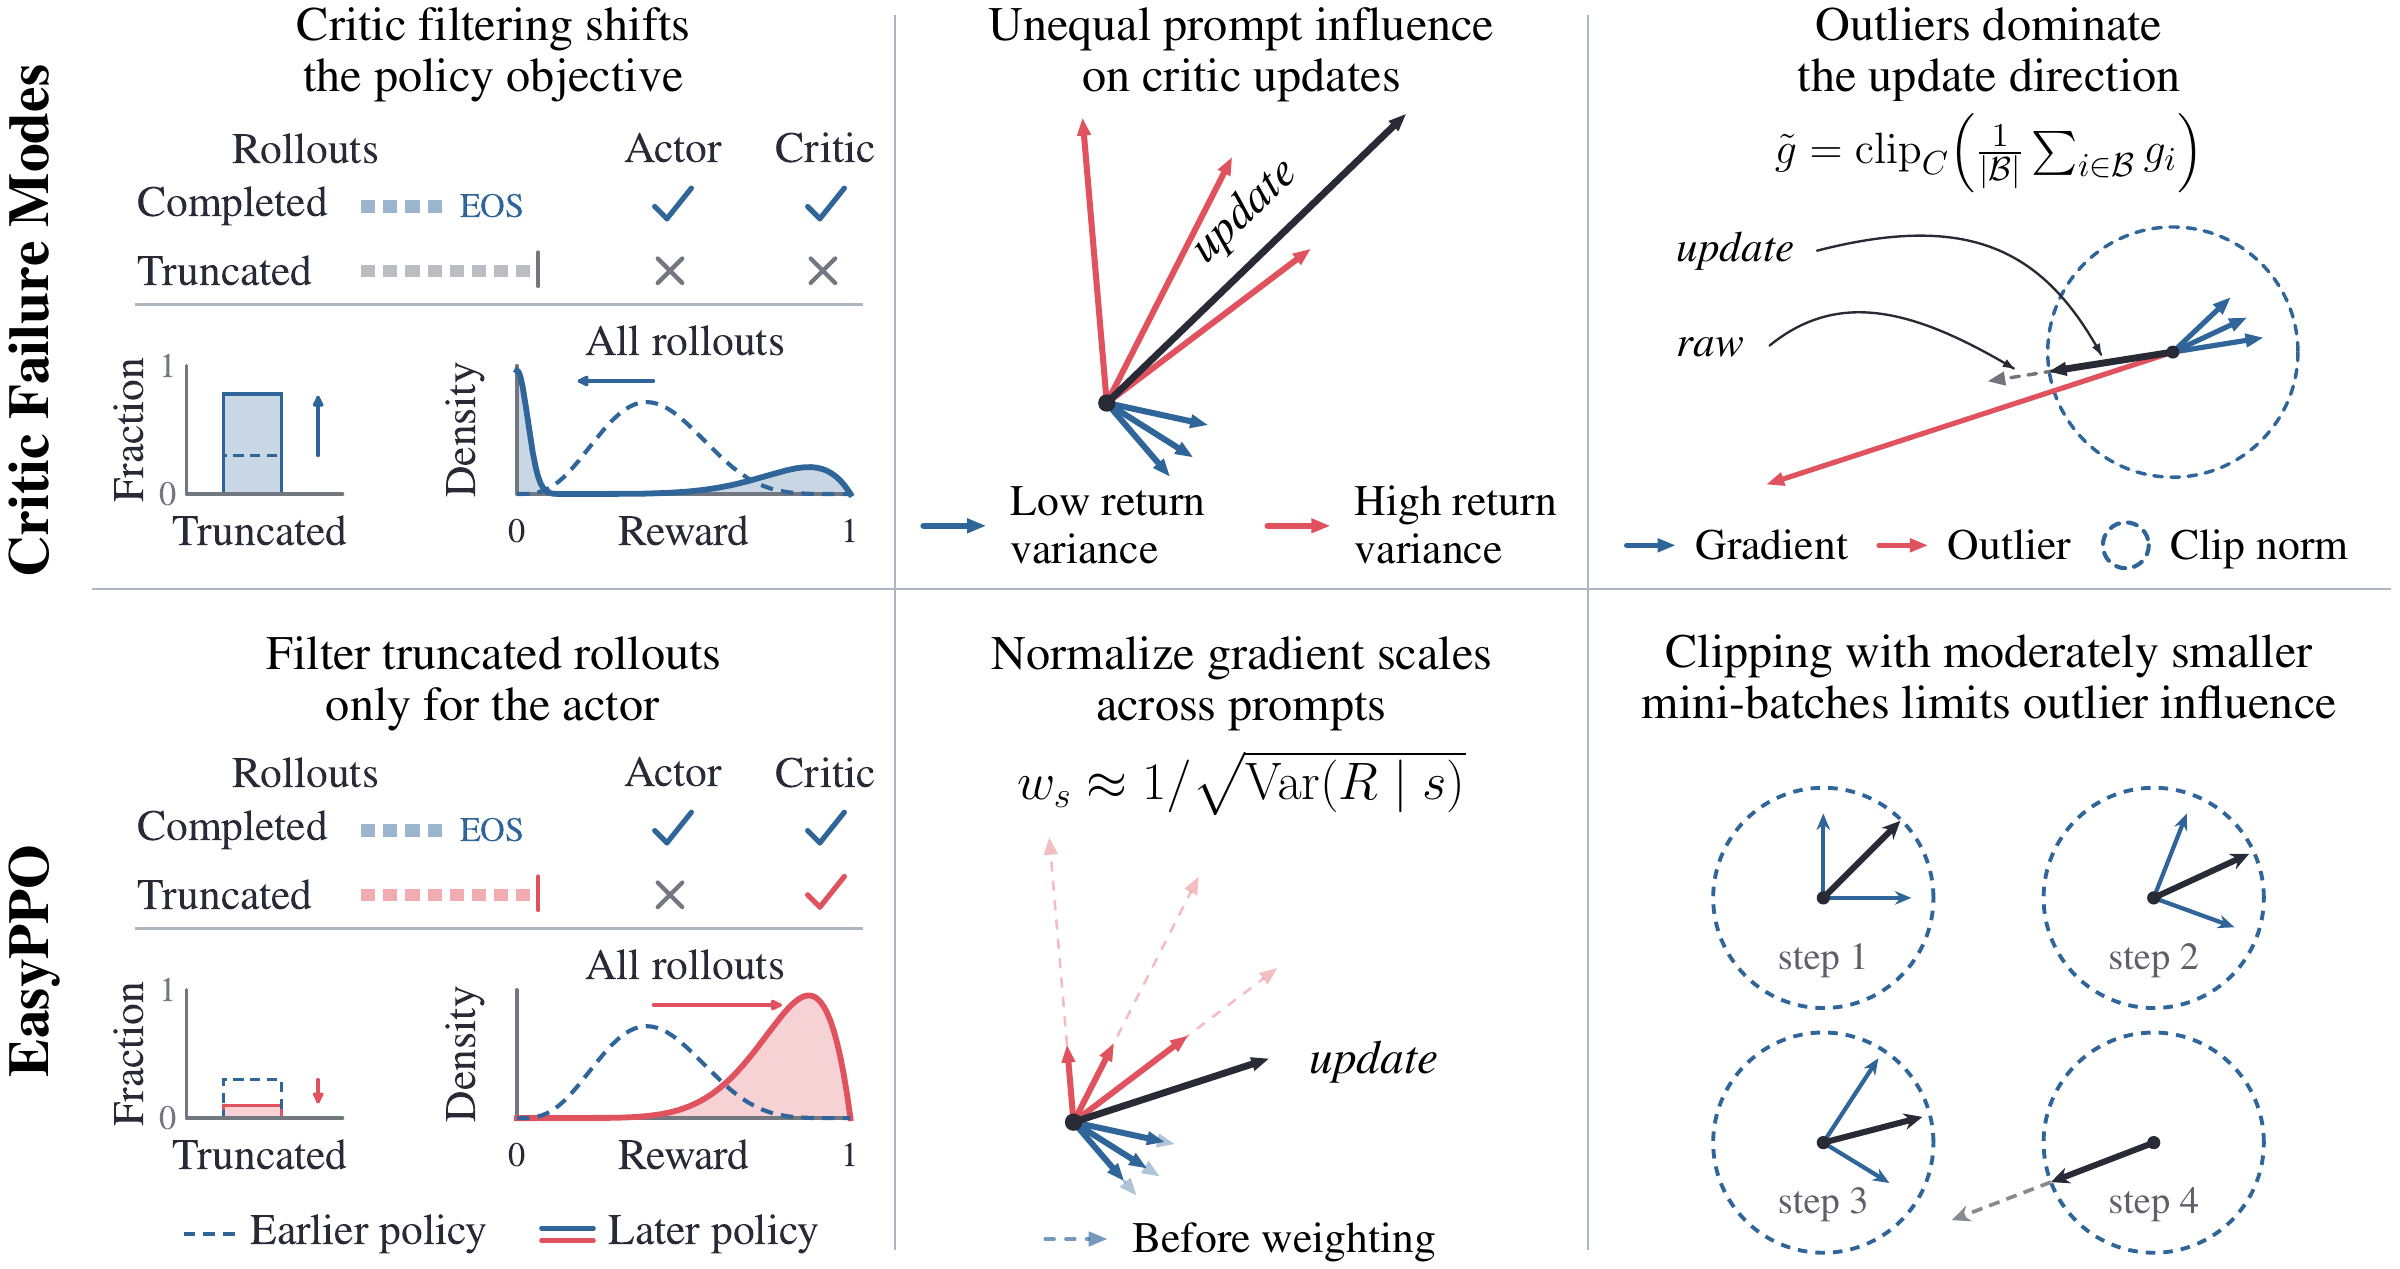
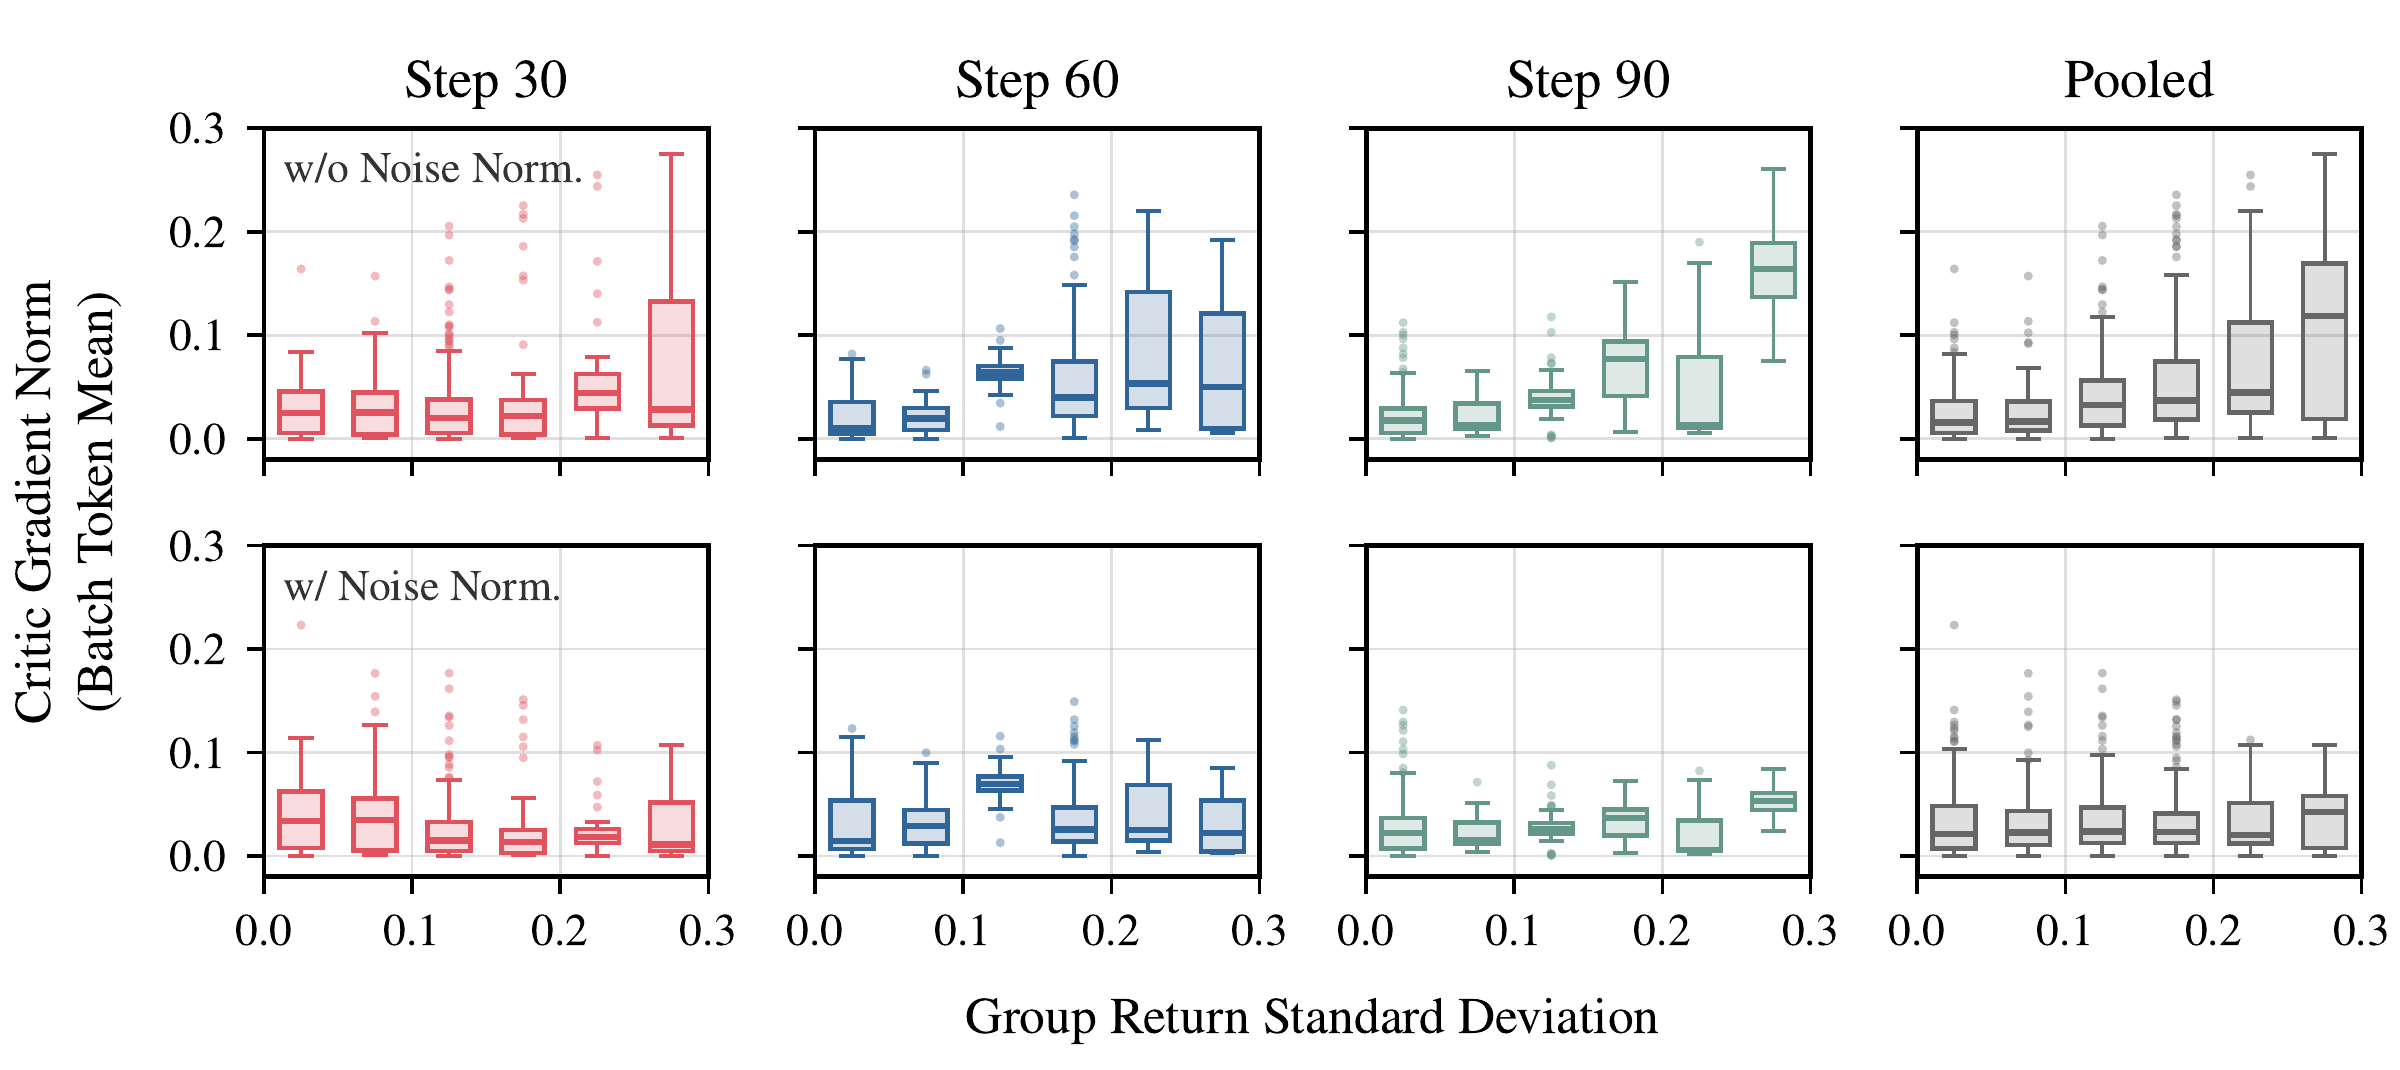
Use gradient analysis as EasyPPO cover

diff --git a/_pages/about.md b/_pages/about.md
@@ -359,7 +359,7 @@ Prior to joining Berkeley, I received my B.E. from [The Chinese University of Ho
 <div class="featured-paper-list">
   <article class="featured-paper">
     <a class="featured-paper-visual" href="https://easyppo.github.io/" aria-label="EasyPPO project webpage">
-      <img src="/assets/img/featured-publications/easyppo-teaser.webp" alt="EasyPPO critic stabilization methods">
+      <img src="/assets/img/featured-publications/easyppo-teaser.webp" alt="EasyPPO critic gradient norm versus group return standard deviation before and after noise normalization">
     </a>
     <div>
       <h4><a href="https://easyppo.github.io/">EasyPPO: Stabilizing the Critic Is Key</a></h4>
